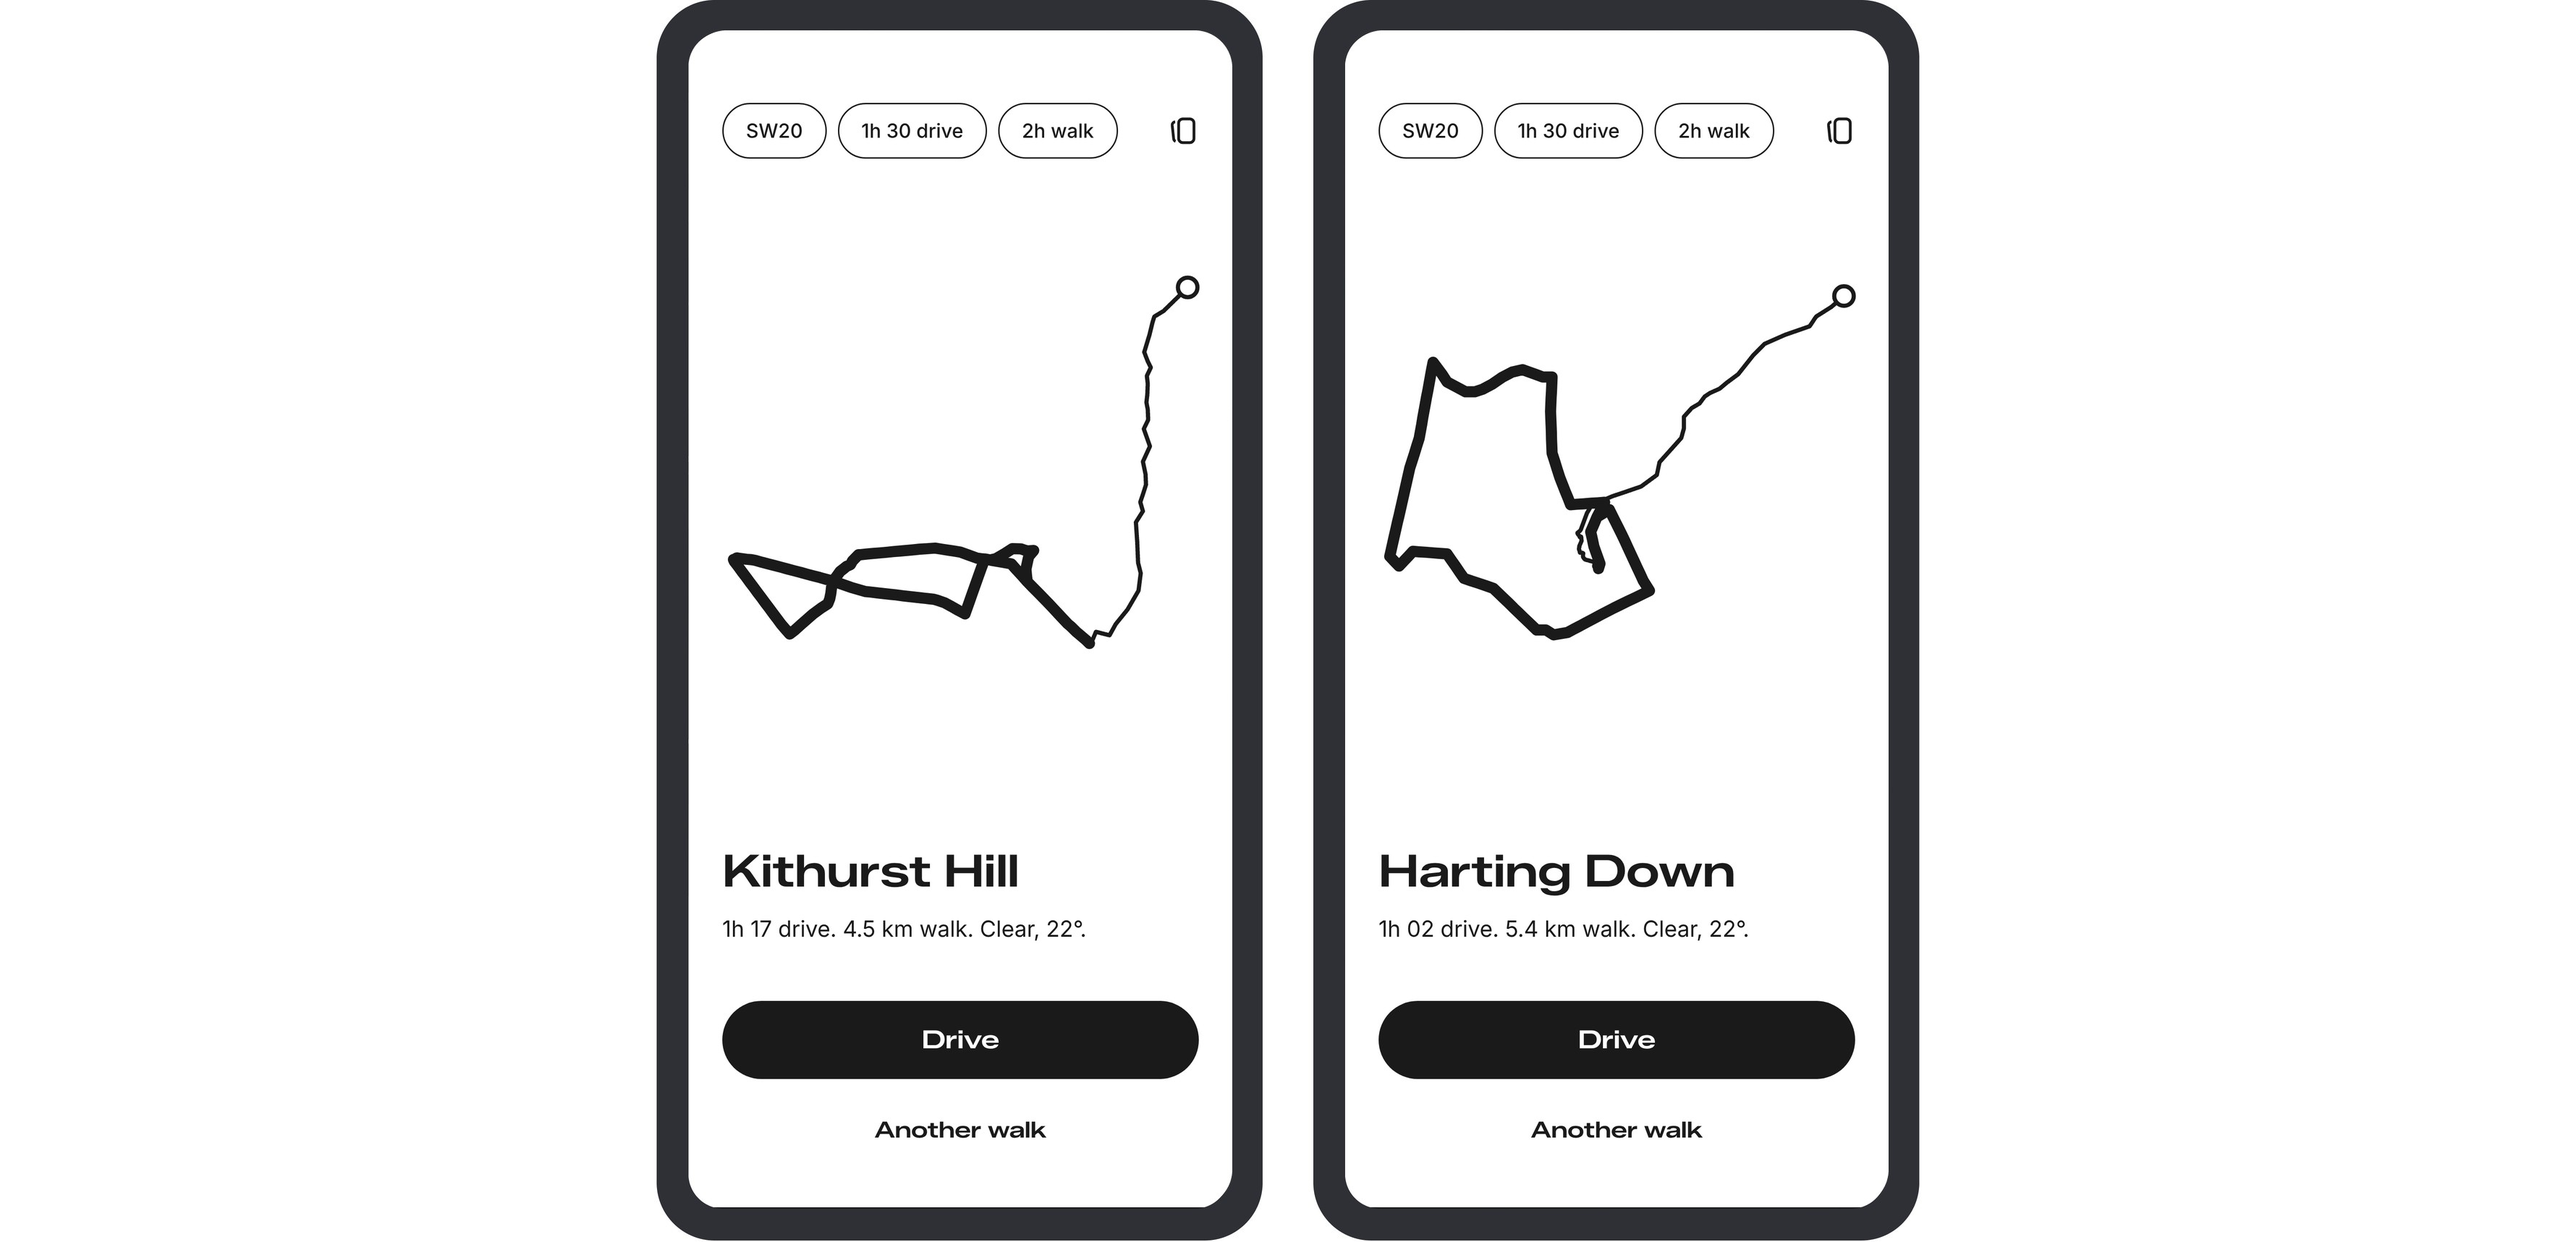
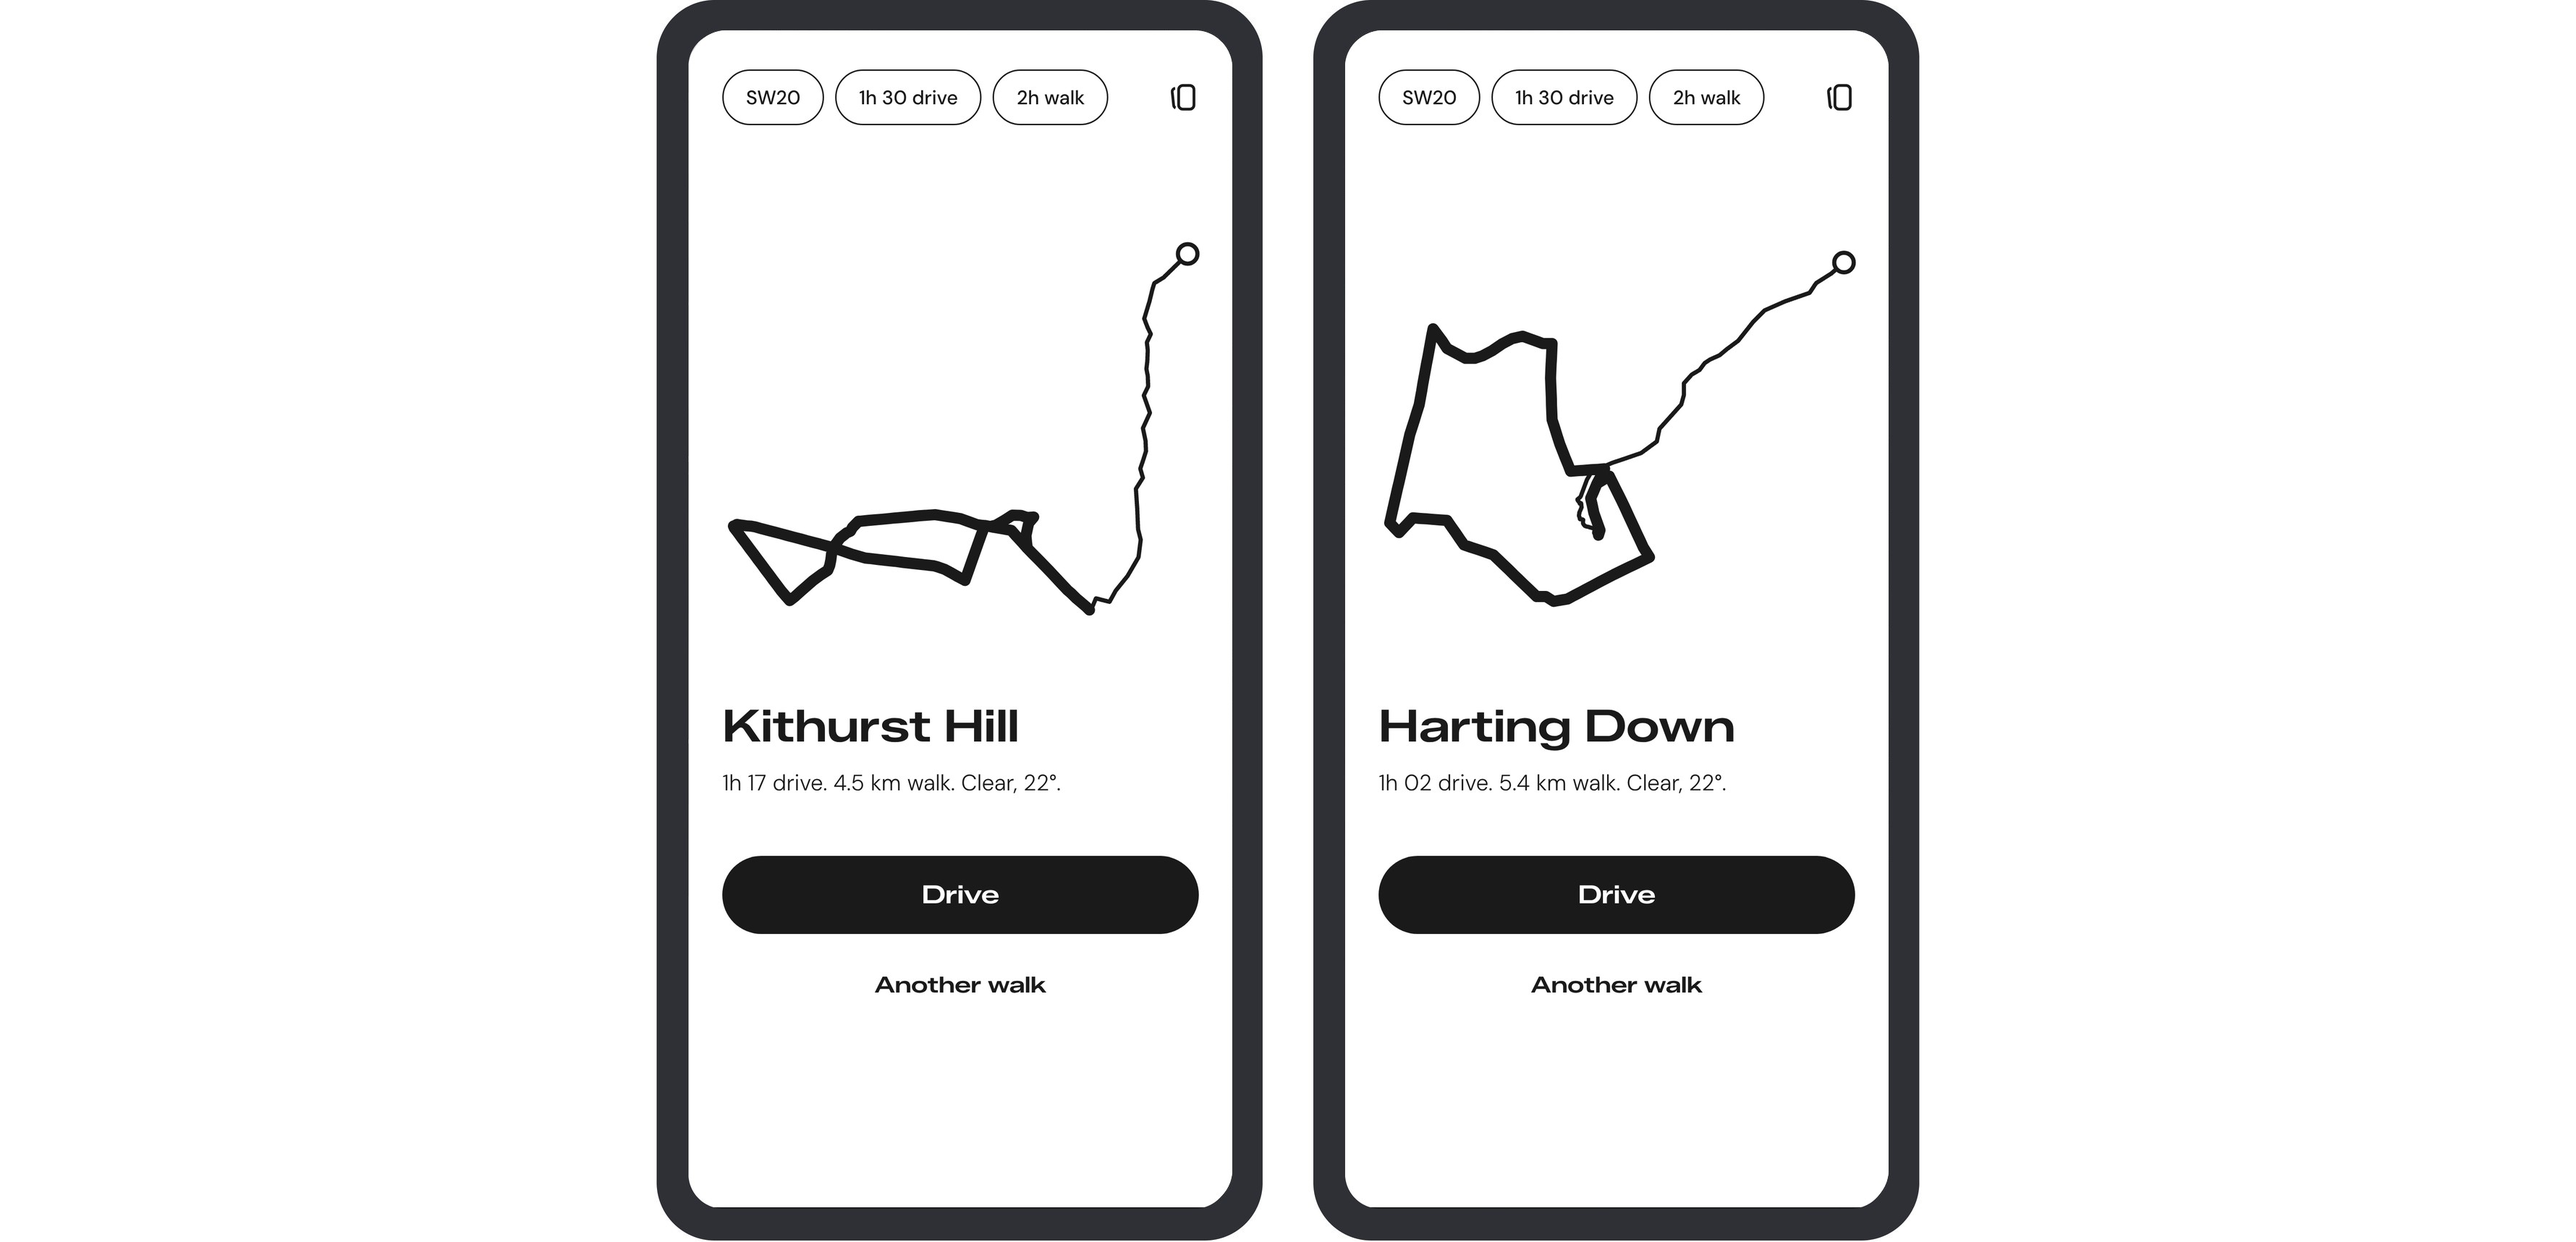
Folio pairs, home still and site phone screens re-rendered in DM Sans
Claude-Session: https://claude.ai/code/session_01P1qx1Rh9WzsP3bLGybR9gi

diff --git a/tools/portfolio/sync_site_screens.py b/tools/portfolio/sync_site_screens.py
@@ -13,7 +13,7 @@ async def main():
         b = await p.chromium.launch(executable_path=os.environ.get("CHROME","/usr/bin/google-chrome"))
         pg = await b.new_page(viewport={"width": 390, "height": 844}, device_scale_factor=2)
         await pg.goto("file://" + os.path.abspath(APP)); await pg.wait_for_timeout(800)
-        ok = await pg.evaluate("async()=>{await document.fonts.ready;var l=[...document.fonts];return l.some(f=>f.family.indexOf('Zalando')>=0&&f.status==='loaded')&&l.some(f=>f.family.indexOf('Inter')>=0&&f.status==='loaded')}")
+        ok = await pg.evaluate("async()=>{await document.fonts.ready;var l=[...document.fonts];return l.some(f=>f.family.indexOf('Zalando')>=0&&f.status==='loaded')&&l.some(f=>f.family.indexOf('DM Sans')>=0&&f.status==='loaded')}")
         if not ok: sys.exit("Fonts did not load (the app's fonts/ folder must sit next to the app file). Nothing rendered.")
         await pg.add_style_tag(content=".stage{display:block;padding:0;min-height:0}.under,.toast,.perm{display:none!important}html body .sheet .opt[aria-pressed=true],html body .sheet .chip[aria-pressed=true]{box-shadow:none!important}.phone{width:390px!important;height:844px!important}.frame{transform:none!important;background:none!important;border-radius:0!important;left:0;top:0}.view{left:0!important;top:0!important;border-radius:0!important}")
         for name, sid in MAP.items():

diff --git a/tools/portfolio/v2cap.py b/tools/portfolio/v2cap.py
@@ -9,7 +9,7 @@ async def main():
     async with async_playwright() as p:
         b=await p.chromium.launch(executable_path=os.environ.get("CHROME","/usr/bin/google-chrome")); pg=await b.new_page(viewport={"width":390,"height":844},device_scale_factor=2)
         await pg.goto("file://"+os.path.abspath(APP)); await pg.wait_for_timeout(800); await pg.add_style_tag(content=CSS)
-        ok = await pg.evaluate("async()=>{await document.fonts.ready;var l=[...document.fonts];return l.some(f=>f.family.indexOf('Zalando')>=0&&f.status==='loaded')&&l.some(f=>f.family.indexOf('Inter')>=0&&f.status==='loaded')}")
+        ok = await pg.evaluate("async()=>{await document.fonts.ready;var l=[...document.fonts];return l.some(f=>f.family.indexOf('Zalando')>=0&&f.status==='loaded')&&l.some(f=>f.family.indexOf('DM Sans')>=0&&f.status==='loaded')}")
         if not ok: sys.exit("Fonts did not load (the app's fonts/ folder must sit next to the app file). Nothing rendered.")
         for n,sid in B.items():
             off=sid.endswith("!"); sid=sid.rstrip("!")

diff --git a/tools/portfolio/folio_screens.py b/tools/portfolio/folio_screens.py
@@ -11,7 +11,7 @@ async def main():
     async with async_playwright() as p:
         b = await p.chromium.launch(executable_path=os.environ.get("CHROME","/usr/bin/google-chrome")); pg = await b.new_page(viewport={"width": 390, "height": 844}, device_scale_factor=3)
         await pg.goto("file://" + os.path.abspath(APP)); await pg.wait_for_timeout(800); await pg.add_style_tag(content=CSS)
-        ok = await pg.evaluate("async()=>{await document.fonts.ready;var l=[...document.fonts];return l.some(f=>f.family.indexOf('Zalando')>=0&&f.status==='loaded')&&l.some(f=>f.family.indexOf('Inter')>=0&&f.status==='loaded')}")
+        ok = await pg.evaluate("async()=>{await document.fonts.ready;var l=[...document.fonts];return l.some(f=>f.family.indexOf('Zalando')>=0&&f.status==='loaded')&&l.some(f=>f.family.indexOf('DM Sans')>=0&&f.status==='loaded')}")
         if not ok: sys.exit("Fonts did not load (the app's fonts/ folder must sit next to the app file). Nothing rendered.")
         for name in SHOTS:
             sid, _, chip = name.partition("+")
